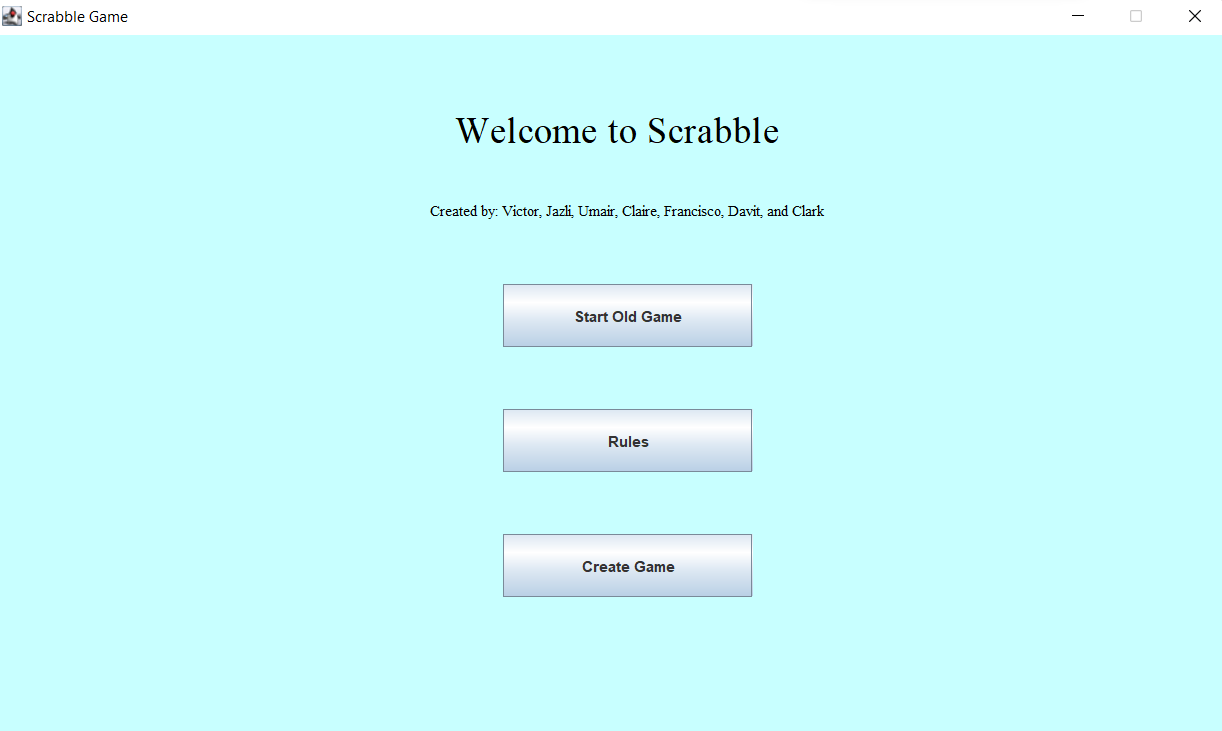
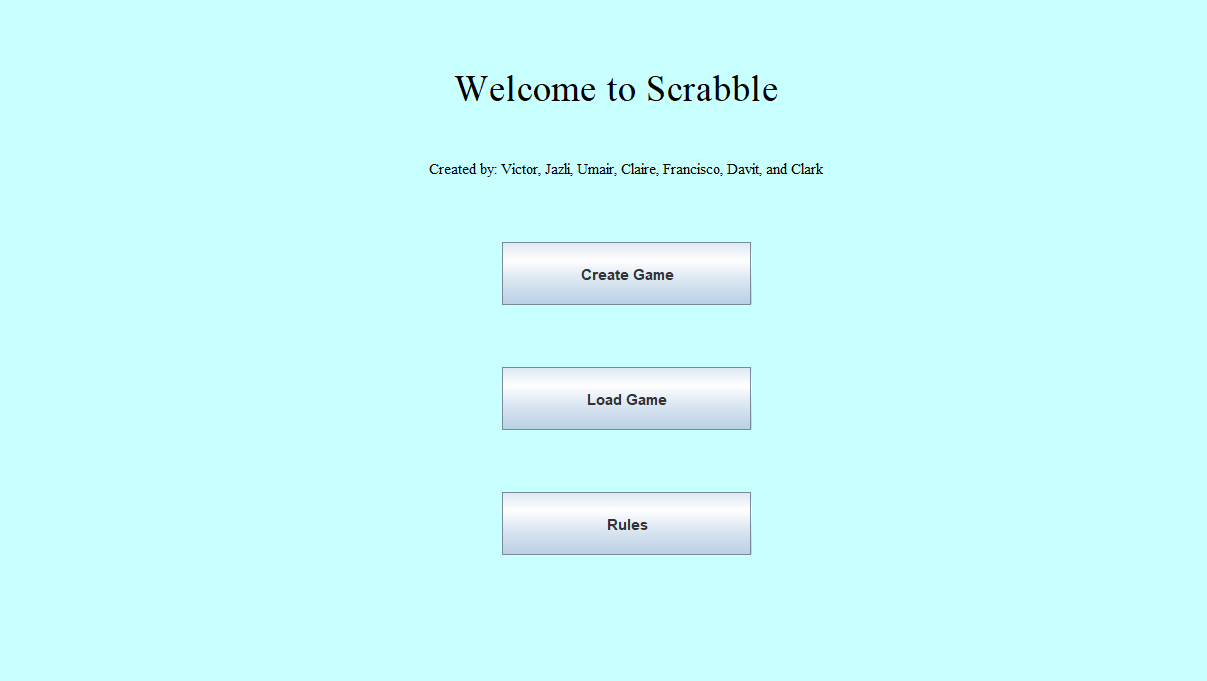
updated welcome page since it is outdated

diff --git a/README.md b/README.md
@@ -56,7 +56,7 @@ We have written up [revised rules for scrabble](https://github.com/CSC207-2022F-
 The rules of scrabble can also be visible through our UI pages.
 
 ### First Step: Running the Game
-To run our game, a player can `Run Main.java` in their console or through Intellij. Immediately following the run, the following page should display.
+To run our game, a player can `Run Main.java` in their console or through Intellij. Immediately following the run, the following page should display. 
 ![image](/resources/WelcomePage.png)
 
 ### Second Step: Rules
@@ -64,8 +64,7 @@ Clicking on the `Rules` button will result in the following page. This can be co
 ![image](/resources/RulesPage.png)
 
 ## Third Step: Create Game
-Clicking on the `Create Game` button will result in the following page. This button allows a user to start a new game from scratch with new player's names. The resulting page will pop up asking for the user to input their names.
-
+Clicking on the `Create Game` button will result in the following page. This button allows a user to start a new game from scratch with new player's names. The resulting page will pop up asking for the user to input their names. The `Load Game` button will bypass the next step and skip to step 5. If the user loads a game that does not exist, a small popup warning will appear. Otherwise, the `Load Game` feature allows for games to start and stop while saving locally.
 ![image](/resources/CreateGamePage.png)
 
 ## Fourth Step: Start Game
